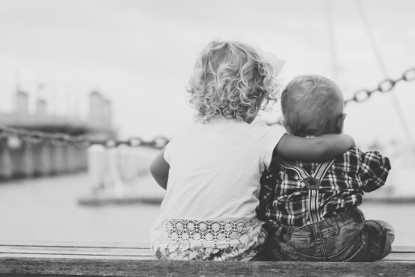
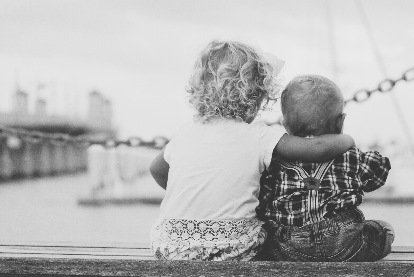
Added media queries for background images and srcset for img elements

diff --git a/areas/index.html b/areas/index.html
@@ -33,14 +33,14 @@
         <h1 class="main-title"> Areas de actuación</h1>
         <section class="column">
             <div class="main-image__container">
-                <img src="../img/asesoramientofiscal.jpg" alt="Asesoramiento fiscal en Sant Feliu de Guixols" />
+                <img src="../img/asesoramientofiscal.jpg" srcset="../img/asesoramientofiscal_small.jpg 414w, ../img/asesoramientofiscal.jpg" sizes="(max-width: 414px) 100vw" alt="Asesoramiento fiscal en Sant Feliu de Guixols" />
                 <div class="bottom-left">
                     <h3>Asesoramiento fiscal</h3>
                     <p> <b>Más de 30 años</b> asesorando a nuestros clientes, representándolos ante la Administración Tributaria y presentando sus declaraciones.</p>
                 </div>
             </div>
             <div class="main-image__container">
-                <img src="../img/contabilidad.jpg" alt="Servicios contables en Sant Feliu de Guixols" />
+                <img src="../img/contabilidad.jpg" srcset="../img/contabilidad_small.jpg 414w, ../img/contabilidad.jpg" sizes="(max-width: 414px) 100vw" alt="Servicios contables en Sant Feliu de Guixols" />
                 <div class="bottom-left">
                     <h3>Contabilidad</h3>
                     <p>Confección de los Estados Contables mediante el constante contacto con nuestros clientes. La cercanía y conocimiento de sus negocios nos permite trasladar a su contabilidad la imagen real de su empresa.</p>
@@ -50,7 +50,7 @@
         <section class="column">
             <div class="main-image__container">
 
-                <img src="../img/gestorialaboral.jpg" alt="Gestoria laboral en Sant Feliu de Guixols" />
+                <img src="../img/gestorialaboral.jpg" srcset="../img/gestorialaboral_small.jpg 414w, ../img/gestorialaboral.jpg" sizes="(max-width: 414px) 100vw" alt="Gestoria laboral en Sant Feliu de Guixols" />
                 <div class="bottom-left">
                     <h3>Laboral</h3>
                     <p>El asesoramiento a empresas, la representación de clientes ante la Tesorería de la Seguridad Social y optimizar sus costes de plantilla son nuestros principales objetivos. La confección de las nóminas y contratos nuestro día a día.</p>
@@ -58,7 +58,7 @@
             </div>
             <div class="main-image__container">
 
-                <img src="../img/asesoramientofinanciero.jpg" alt="Asesoramiento financiero en Sant Feliu de Guixols" />
+                <img src="../img/asesoramientofinanciero.jpg" srcset="../img/asesoramientofinanciero_small.jpg 414w, ../img/asesoramientofinanciero.jpg" sizes="(max-width: 414px) 100vw" alt="Asesoramiento financiero en Sant Feliu de Guixols" />
                 <div class="bottom-left">
                     <h3>Asesoramiento Financiero</h3>
                     <p>Nuestra amplia experiencia en temas financieros nos permite ayudar a nuestros clientes en la tramitación de préstamos, tanto a nivel particular como de empresa, según sus necesidades.</p>
@@ -77,7 +77,7 @@
             </div>
             <div class="main-image__container">
 
-                <img src="../img/gestoriaadministrativa.jpg" alt="Gestoria administrativa en Sant Feliu de Guixols" />
+                <img src="../img/gestoriaadministrativa.jpg" srcset="../img/gestoriaadministrativa_small.jpg 414w, ../img/gestoriaadministrativa.jpg" sizes="(max-width: 414px) 100vw" alt="Gestoria administrativa en Sant Feliu de Guixols" />
                 <div class="bottom-left">
                     <h3>Gestión administrativa</h3>
                     <p>Adscritos al Colegio de Gestores Administrativos desde hace<b> más de 25 años</b>. Realizando todo tipo de tramitaciones ante Tráfico y cualquier Administración Pública.</p>
@@ -88,7 +88,7 @@
         <section class="column">
             <div class="main-image__container">
 
-                <img src="../img/gestionintegralempresas.jpg" alt="Planificación y gestión integral de empresas en Sant Feliu de Guixols"
+                <img src="../img/gestionintegralempresas.jpg" srcset="../img/gestionintegralempresas_small.jpg 414w, ../img/gestionintegralempresas.jpg" sizes="(max-width: 414px) 100vw" alt="Planificación y gestión integral de empresas en Sant Feliu de Guixols"
                 />
                 <div class="bottom-left">
                     <h3>Gestión Integral de Empresas</h3>
@@ -97,7 +97,7 @@
             </div>
             <div class="main-image__container">
 
-                <img src="../img/agenciainmobiliaria.jpg" alt="Agencia inmobiliaria en Sant Feliu de Guixols" />
+                <img src="../img/agenciainmobiliaria.jpg" srcset="../img/agenciainmobiliaria_small.jpg 414w, ../img/agenciainmobiliaria.jpg" sizes="(max-width: 414px) 100vw"alt="Agencia inmobiliaria en Sant Feliu de Guixols" />
                 <div class="bottom-left">
                     <h3>Agencia de la Propiedad Inmobiliaria</h3>
                     <p>Trabajamos con importantes plataformas de compra-venta de inmuebles de Cataluña.</p>

diff --git a/main.css b/main.css
@@ -17,23 +17,23 @@
 }
 
 #slider1 {
-  background-image: url("img/slider1.jpg");
+  background-image: url("img/slider1_small.jpg");
   background-position: left bottom;
 }
 
 #slider2 {
   background-position: 15% bottom;
-  background-image: url("img/slider2.jpg");
+  background-image: url("img/slider2_small.jpg");
 }
 
 #slider3 {
-  background-image: url("img/slider3.jpg");
+  background-image: url("img/slider3_small.jpg");
   padding-top: 58vh;
   background-position: 10% 90%;
 }
 
 #slider4 {
-  background-image: url("img/slider4.jpg");
+  background-image: url("img/slider4_small.jpg");
   padding-top: 47vh;
 }
 
@@ -51,16 +51,20 @@
  #slider3 {
     background-position-y: bottom;
     background-position-x: center;
+    background-image: url("img/slider3.jpg");
   }
   #slider4 {
     background-position: center 26%;
+    background-image: url("img/slider4.jpg");
+
   }
 
   #slider1 {
      background-position: center 70%;   
+     background-image: url("img/slider1.jpg");
   }
   #slider2 {
     background-position: center 45%;   
-   
+    background-image: url("img/slider2.jpg");   
   }
 }
